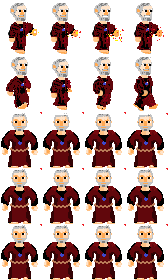
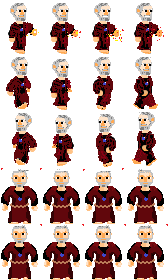
Added more animation, and also added a skeleton (WIP)

diff --git a/js/world/world.js b/js/world/world.js
@@ -82,14 +82,14 @@ var levelOne = [  // levelOne - Castle
 var levelTwo = [ //levelTwo - Crypts Level I
 					 74, 76, 74, 75, 74, 76, 74, 37,107, 38,107, 38,107, 37,107, 38,107,107,107,107,107, 38,107, 38,107, 38,107, 38,107, 38,107, 38,107, 38,107, 38,107, 38,107, 37,
 					 74, 71, 71, 71, 71, 71, 71, 37, 39, 39, 39, 39, 39, 39, 39, 37, 39, 39, 39, 39, 39, 39, 39, 39, 39, 39, 39, 39, 39, 39, 39, 39, 39, 39, 39, 39, 39, 39, 39, 37,
-					 75, 71, 78, 71, 71, 71, 71, 37, 39, 39, 39, 39, 39, 39, 39, 37, 39, 39, 39, 39, 39, 39, 39, 39, 39, 39, 39, 39, 39, 39, 39, 39, 39, 39, 39, 39, 39, 39, 39, 37,
+					 75, 71, 78, 71, 71, 71, 71, 37, 39, 39, 39, 39, 39, 39, 39, 37, 39, 39, 39,116, 39, 39, 39, 39, 39, 39, 39, 39, 39, 39, 39, 39, 39, 39, 39, 39, 39, 39, 39, 37,
 					 74, 71, 71, 71, 71, 71, 71, 37, 39, 39, 39, 39, 39, 39, 39, 37, 39, 39, 39, 39, 39, 39, 39, 39, 39, 39, 39, 39, 39, 39, 39, 39, 39, 39, 39, 39, 39, 39, 39, 37,
 					 76, 71, 71, 71, 77, 71, 71, 38, 37, 38, 37, 38, 37, 39, 39, 37,107,107,107, 39,107,107,107,107,107,107, 42, 42, 36, 36, 39, 36, 42, 36, 42, 42, 36, 42, 42, 37,
 					 74, 71, 71, 71, 71, 71, 71, 37, 39, 39, 39, 39, 39, 39, 39, 37, 12, 39, 39, 39, 39, 39, 39, 39, 39, 37, 39, 39, 39, 39, 39, 39, 39, 39, 39, 39, 39, 39, 39, 37,
 					 75, 71, 71, 71, 71, 71, 71, 37, 39, 39, 39, 39, 39, 39, 39, 37,  2, 35, 39, 39, 33, 39, 33, 35, 39, 37, 39, 35, 39, 39, 39, 39, 35, 39, 39, 39, 39, 35, 39, 37,
 					 74, 71, 71, 71, 71, 71, 71, 37,  3, 37, 37, 37, 37, 37,  7, 37, 39, 39, 39, 39, 39, 39, 39, 39, 39, 37, 39, 39, 40, 39, 39, 33, 39, 39, 33, 39, 33, 39, 39, 37,
-					 76, 71, 71, 71,107,107,107, 37, 39, 14, 10, 37, 10, 15, 39, 37, 39, 39, 39, 39, 34, 39, 33, 39, 39, 37, 39, 39, 39, 39, 39, 39, 39, 39, 39, 39, 39, 39, 39, 37,
-					 74, 71, 71, 71, 37, 22, 39, 39, 39, 39, 39, 37, 39, 39, 39, 37, 22, 39, 39, 39, 39, 39, 39, 39, 39, 37, 39, 39, 33, 39, 39, 33, 39, 39, 33, 39, 33, 39, 39, 37,
+					 76, 71, 71, 71,107,107,107, 37, 39, 14, 10, 37, 10, 15, 39, 37, 39, 39, 39, 39, 34, 39, 33,116, 39, 37, 39, 39, 39, 39, 39, 39, 39, 39, 39, 39, 39, 39, 39, 37,
+					 74, 71, 71, 71, 37, 22, 39, 39, 39, 39, 39, 37, 39,116, 39, 37, 22, 39, 39, 39, 39, 39, 39, 39, 39, 37, 39, 39, 33, 39, 39, 33, 39, 39, 33, 39, 33, 39, 39, 37,
 					 75, 71, 71, 71, 37, 39, 39, 39, 39, 39, 39, 37, 39, 39, 39, 37, 39, 35, 39, 39, 33, 39, 33, 35, 39, 37, 39, 39, 39, 39, 39, 39, 39, 39, 39, 39, 39, 39, 39, 37,
 					 74, 71, 71, 71, 37, 39, 39, 39, 39, 39, 39, 37, 39, 39, 39, 37, 39, 39, 39, 39, 39, 39, 39, 39, 39, 37, 39, 35, 33, 39, 39, 33, 35, 39, 33, 39, 33, 35, 39, 37,
 					 76, 71, 71, 71, 37, 39, 39, 39, 37, 37, 37, 37, 39, 39, 39, 37,107,107,107, 39,107,107,107,107,107, 37, 39, 39, 39, 39, 39, 39, 39, 39, 39, 39, 39, 39, 39, 37,
@@ -296,6 +296,7 @@ const TILE_CAVE_ROCK = 112;
 const TILE_CAVE_ROCK2 = 113;
 const TILE_MINE_TRACK = 114;
 const TILE_WIZARD_BOSS = 115;
+const TILE_SKELETON = 116;
 
 
 function gameCoordToIsoCoord (pixelX, pixelY) {

diff --git a/js/utilities/ImageLoading.js b/js/utilities/ImageLoading.js
@@ -16,6 +16,7 @@ var orcPic = document.createElement("img");
 var ogrePic = document.createElement("img");
 var ratPic = document.createElement("img");
 var spiderPic = document.createElement("img");
+var skeletonPic = document.createElement("img");
 var skeletonKingPic = document.createElement("img");
 var orcBossPic = document.createElement("img");
 var wizardBossPic = document.createElement("img");
@@ -102,6 +103,7 @@ function loadImages() {
 			//enemies
 			{varName: orcPic, theFile: "monsters/orc1.png"},
 			{varName: goblinPic, theFile: "monsters/goblinAnim.png"},
+			{varName: skeletonPic, theFile: "monsters/skeleton.png"},
 			{varName: ogrePic, theFile: "monsters/ogre.png"},
 			{varName: ratPic, theFile: "monsters/rat.png"},
 			{varName: spiderPic, theFile: "monsters/spider.png"},

diff --git a/index.html b/index.html
@@ -49,6 +49,7 @@
 		<script src="js/characters/npc/npc.js"></script> <!-- NPCs must come after this file -->
 		<script src="js/characters/npc/hostile/enemy.js"></script> <!-- Hostile NPCs must come after this file -->
 		<script src="js/characters/npc/hostile/goblin.js"></script>
+		<script src="js/characters/npc/hostile/skeleton.js"></script>
 		<script src="js/characters/npc/hostile/rat.js"></script>
 		<script src="js/characters/npc/hostile/orc.js"></script>
 		<script src="js/characters/npc/hostile/ogre.js"></script>

diff --git a/js/characters/npc/hostile/skeleton.js b/js/characters/npc/hostile/skeleton.js
@@ -1,0 +1,18 @@
+const SKELETON_NAMES = [ "Vince, Gino, Bobby"];
+
+const SKELETON_MAX_HEALTH = 2;
+const SKELETON_MOVEMENT_SPEED = 3;
+const SKELETON_WIDTH = 30;
+const SKELETON_HEIGHT = 31;
+
+class Skeleton extends Enemy {
+  constructor(location) {
+    super(SKELETON_MAX_HEALTH, SKELETON_MOVEMENT_SPEED, SKELETON_WIDTH, SKELETON_HEIGHT);
+		this.init();
+  }
+
+  init() {
+    super.init(skeletonPic, randFromList(SKELETON_NAMES), TILE_SKELETON);
+		this.enableAnimation = true;
+  }
+}

diff --git a/js/characters/npc/npc.js b/js/characters/npc/npc.js
@@ -37,6 +37,7 @@ class NPC extends Character {
     		if(this.myTile == TILE_SKELETON_KING ||
     		   this.myTile == TILE_SPIDER ||
 			   this.myTile == TILE_WIZARD_BOSS ||
+			   this.myTile == TILE_SKELETON ||
     		   this.myTile == TILE_ORC){
     			this.randomMovements();
     		} else {

diff --git a/js/maps/map.js b/js/maps/map.js
@@ -23,6 +23,9 @@ class Map {
         case TILE_GOBLIN:
             this.addChar(i, new Goblin());
             break;
+		case TILE_SKELETON:
+            this.addChar(i, new Skeleton());
+            break;
         case TILE_ORC:
             this.addChar(i, new Orc());
             break;

diff --git a/js/maps/cave1.js b/js/maps/cave1.js
@@ -20,6 +20,7 @@ class Cave1 extends Map {
       case TILE_ORC_BOSS:
 	  case TILE_WIZARD_BOSS:
       case TILE_PLAYER:
+	  case TILE_SKELETON:
         return TILE_ROAD;
 
       // Wall Decors
